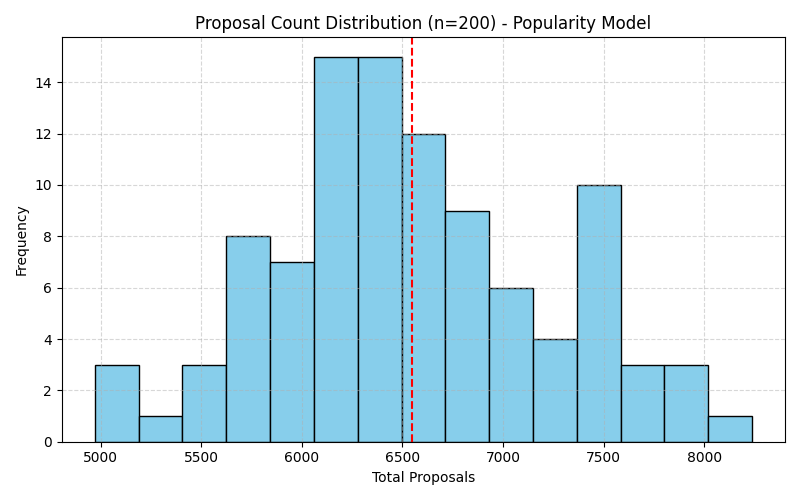
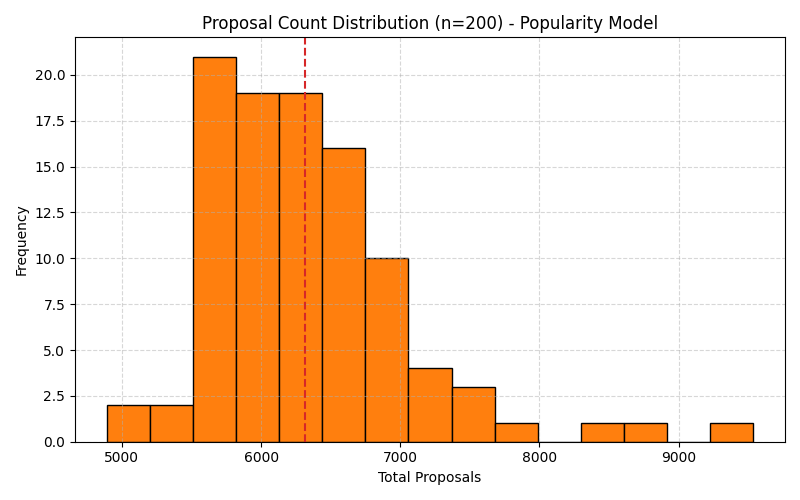
proj 2

diff --git a/popularity.py b/popularity.py
@@ -1,73 +1,102 @@
-import numpy as np
+import os
+from pathlib import Path
 import matplotlib
 import matplotlib.pyplot as plt
+import numpy as np
 from da import gale_shapley
-matplotlib.use('Agg')
+
+matplotlib.use("Agg")
+
+def _ensure_plot_dir(dirname="plots"):
+    Path(dirname).mkdir(parents=True, exist_ok=True)
+
+def weighted_shuffle(prob_dist):
+    n = len(prob_dist)
+    return list(np.random.choice(range(n), size=n, replace=False, p=prob_dist))
 
 def generate_popularity_preferences(n, alpha=2.0):
-    popularity = np.array([1 / (i + 1) ** alpha for i in range(n)])
+    popularity = np.array([1 / (i + 1) ** alpha for i in range(n)], dtype=np.float64)
     popularity /= popularity.sum()
 
-    def weighted_shuffle(prob_dist):
-        return list(np.random.choice(range(n), size=n, replace=False, p=prob_dist))
+    doc_prefs = [weighted_shuffle(popularity) for _ in range(n)]
+    hosp_prefs = [weighted_shuffle(popularity) for _ in range(n)]
+    return doc_prefs, hosp_prefs
 
-    doctors_prefs = [weighted_shuffle(popularity) for _ in range(n)]
-    hospitals_prefs = [weighted_shuffle(popularity) for _ in range(n)]
+def generate_popularity_preferences_from_weights(n, weights):
+    weights_arr = np.asarray(weights, dtype=np.float64)
 
-    return doctors_prefs, hospitals_prefs
+    def shuffle_with_weights():
+        noise = -np.log(np.random.uniform(size=n)) / weights_arr
+        return list(np.argsort(noise))
+
+    return [shuffle_with_weights() for _ in range(n)], [shuffle_with_weights() for _ in range(n)]
+
+def avg_rank(d_prefs, h_prefs, matches):
+    n = len(d_prefs)
+    d_to_h = [None] * n
+    for h, d in enumerate(matches):
+        d_to_h[d] = h
+
+    doc_rank = sum(d_prefs[d].index(d_to_h[d]) for d in range(n)) / n
+    hosp_rank = sum(h_prefs[h].index(matches[h]) for h in range(n)) / n
+    return doc_rank, hosp_rank
 
 def experiment_pop1():
+    _ensure_plot_dir()
     ns = [10, 50, 100, 200, 500]
     trials = 5
-    avg_proposals = []
 
+    avg_proposals = []
     for n in ns:
         total = 0
         for _ in range(trials):
             d_prefs, h_prefs = generate_popularity_preferences(n)
             _, props = gale_shapley(d_prefs, h_prefs)
             total += props
-        avg = total / trials
-        avg_proposals.append(avg)
+        avg_proposals.append(total / trials)
 
     plt.figure(figsize=(8, 5))
-    plt.plot(ns, avg_proposals, marker='o')
+    plt.plot(ns, avg_proposals, marker="o", color="tab:green")
     plt.title("Average Number of Proposals vs n (Popularity Model)")
     plt.xlabel("n")
     plt.ylabel("Average Proposals")
-    plt.yscale("log")  
-    plt.grid(True, linestyle='--', alpha=0.6)
+    plt.yscale("log")
+    plt.grid(True, linestyle="--", alpha=0.6)
     plt.tight_layout()
     plt.savefig("plots/pop_exp1_avg_proposals_vs_n.png")
-
+    plt.close()
 
 def experiment_pop2(n=200, trials=100):
+    _ensure_plot_dir()
     proposal_counts = []
     for _ in range(trials):
         d_prefs, h_prefs = generate_popularity_preferences(n)
         _, props = gale_shapley(d_prefs, h_prefs)
         proposal_counts.append(props)
 
-    avg = sum(proposal_counts) / len(proposal_counts)
+    avg = np.mean(proposal_counts)
 
     plt.figure(figsize=(8, 5))
-    plt.hist(proposal_counts, bins=15, color='skyblue', edgecolor='black')
-    plt.axvline(avg, color='red', linestyle='--')
-    plt.title(f'Proposal Count Distribution (n={n}) - Popularity Model')
-    plt.xlabel('Total Proposals')
-    plt.ylabel('Frequency')
-    plt.grid(True, linestyle='--', alpha=0.5)
+    plt.hist(proposal_counts, bins=15, color="tab:orange", edgecolor="black")
+    plt.axvline(avg, color="tab:red", linestyle="--")
+    plt.title(f"Proposal Count Distribution (n={n}) - Popularity Model")
+    plt.xlabel("Total Proposals")
+    plt.ylabel("Frequency")
+    plt.grid(True, linestyle="--", alpha=0.5)
     plt.tight_layout()
-    plt.savefig(f'plots/pop_exp2_proposal_distribution_n{n}.png')
+    plt.savefig(f"plots/pop_exp2_proposal_distribution_n{n}.png")
+    plt.close()
 
 def experiment_pop3():
+    _ensure_plot_dir()
     ns = [10, 50, 100, 200, 500]
     trials = 5
+
     doc_ranks = []
     hosp_ranks = []
 
     for n in ns:
-        d_total, h_total = 0, 0
+        d_total = h_total = 0
         for _ in range(trials):
             d_prefs, h_prefs = generate_popularity_preferences(n)
             matches, _ = gale_shapley(d_prefs, h_prefs)
@@ -76,23 +105,23 @@ def experiment_pop3():
                 d_to_h[d] = h
             d_total += sum(d_prefs[d].index(d_to_h[d]) for d in range(n))
             h_total += sum(h_prefs[h].index(matches[h]) for h in range(n))
-
         doc_ranks.append(d_total / (n * trials))
         hosp_ranks.append(h_total / (n * trials))
 
     plt.figure(figsize=(8, 5))
-    plt.plot(ns, doc_ranks, label="Doctors", marker='o')
-    plt.plot(ns, hosp_ranks, label="Hospitals", marker='s', linestyle='--')
+    plt.plot(ns, doc_ranks, label="Doctors", marker="o", color="tab:blue")
+    plt.plot(ns, hosp_ranks, label="Hospitals", marker="s", linestyle="--", color="tab:red")
     plt.title("Average Match Rank vs n (Popularity Model)")
     plt.xlabel("n")
     plt.ylabel("Avg Rank in Preference List")
     plt.legend()
-    plt.grid(True, linestyle='--', alpha=0.5)
+    plt.grid(True, linestyle="--", alpha=0.5)
     plt.tight_layout()
     plt.savefig("plots/pop_exp3_avg_rank_vs_n.png")
-
+    plt.close()
 
 def experiment_pop4(n=200, trials=100):
+    _ensure_plot_dir()
     cutoffs = [0.1, 0.2, 0.3, 0.4, 0.5]
     doc_hits = [0] * len(cutoffs)
     hosp_hits = [0] * len(cutoffs)
@@ -124,20 +153,56 @@ def experiment_pop4(n=200, trials=100):
     hosp_rates = [v / total for v in hosp_hits]
 
     plt.figure(figsize=(8, 5))
-    plt.plot(x_vals, doc_rates, label="Doctors", marker='o')
-    plt.plot(x_vals, hosp_rates, label="Hospitals", marker='s', linestyle='--')
+    plt.plot(x_vals, doc_rates, label="Doctors", marker="o", color="tab:purple")
+    plt.plot(x_vals, hosp_rates, label="Hospitals", marker="s", linestyle="--", color="tab:brown")
     plt.title("Top p% Preference Match Rate (Popularity Model)")
     plt.xlabel("Top p%")
     plt.ylabel("Proportion Matched")
     plt.ylim(0, 1.05)
     plt.legend()
-    plt.grid(True, linestyle='--', alpha=0.5)
+    plt.grid(True, linestyle="--", alpha=0.5)
     plt.tight_layout()
-    plt.savefig(f'plots/pop_exp4_top_percent_match_n{n}.png')
+    plt.savefig("plots/pop_exp4_top_percent_match_n{n}.png")
+    plt.close()
 
+def experiment_pop5(n=100, trials=100):
+    _ensure_plot_dir()
+    power_law_weights = [2 ** (i * 0.05) for i in range(n)]
+    near_uniform_weights = np.linspace(1, 2, n)
+
+    doc_ranks_power, hosp_ranks_power = [], []
+    doc_ranks_uniform, hosp_ranks_uniform = [], []
+
+    for _ in range(trials):
+        d_prefs, h_prefs = generate_popularity_preferences_from_weights(n, power_law_weights)
+        matches, _ = gale_shapley(d_prefs, h_prefs)
+        d_rank, h_rank = avg_rank(d_prefs, h_prefs, matches)
+        doc_ranks_power.append(d_rank)
+        hosp_ranks_power.append(h_rank)
+
+        d_prefs, h_prefs = generate_popularity_preferences_from_weights(n, near_uniform_weights)
+        matches, _ = gale_shapley(d_prefs, h_prefs)
+        d_rank, h_rank = avg_rank(d_prefs, h_prefs, matches)
+        doc_ranks_uniform.append(d_rank)
+        hosp_ranks_uniform.append(h_rank)
+
+    plt.figure(figsize=(8, 5))
+    plt.hist(doc_ranks_power, bins=20, alpha=0.5, label="Doctors – Power Law", color="tab:cyan", edgecolor="black")
+    plt.hist(hosp_ranks_power, bins=20, alpha=0.5, label="Hospitals – Power Law", color="tab:olive", edgecolor="black")
+    plt.hist(doc_ranks_uniform, bins=20, alpha=0.5, label="Doctors – Near Uniform", color="tab:pink", edgecolor="black")
+    plt.hist(hosp_ranks_uniform, bins=20, alpha=0.5, label="Hospitals – Near Uniform", color="tab:gray", edgecolor="black")
+    plt.title("Average Match Rank Distribution\nPower Law vs Near Uniform Popularity")
+    plt.xlabel("Average Rank in Preference List")
+    plt.ylabel("Frequency")
+    plt.legend()
+    plt.grid(True, linestyle="--", alpha=0.5)
+    plt.tight_layout()
+    plt.savefig("plots/pop_exp5_rank_comparison_distributions.png")
+    plt.close()
 
 if __name__ == "__main__":
     experiment_pop1()
     experiment_pop2()
     experiment_pop3()
     experiment_pop4()
+    experiment_pop5()
